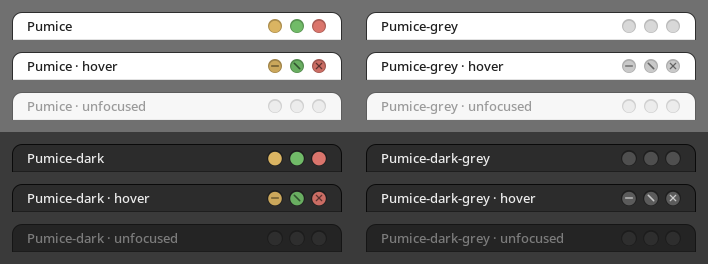
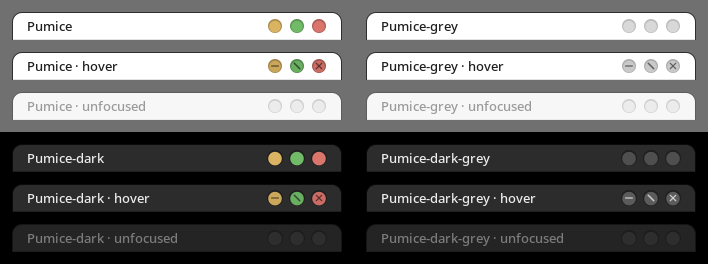
Blend the dark corners toward black
The rounded corners' edge pixels are blended from the border colour toward
a guess at the desktop behind. For the dark variants that was #3a3a3a,
which made them lighter than the border, nearly the title bar's colour:
on a black desktop the corner showed a light, notched fringe. Blended
toward black they stay darker than the border, so they vanish on a dark
desktop and read as a crisp dark corner on a light one. The README strip
draws the dark rows on black to match.

Changed region(s): [[0.0, 0.4848, 1.0, 1.0]]

diff --git a/build.py b/build.py
@@ -35,7 +35,7 @@ VARIANTS = {
     "Pumice-dark": dict(
         frame={"active":   dict(bg="#2c2c2c", border="#0a0a0a", sep="#1e1e1e"),
                "inactive": dict(bg="#242424", border="#151515", sep="#1c1c1c")},
-        edge="#3a3a3a",
+        edge="#000000",                                  # darker than the border, so no light fringe on a dark desktop
         idle=("#2e2e2e", "#1c1c1c"),                     # an empty socket, so focus shows without colour
         grey=("#4f4f4f", "#d4d4d4"),
         well="#1e1e1e",                                  # dot rim: cut darker than the frame, where a shade of the dot would vanish
